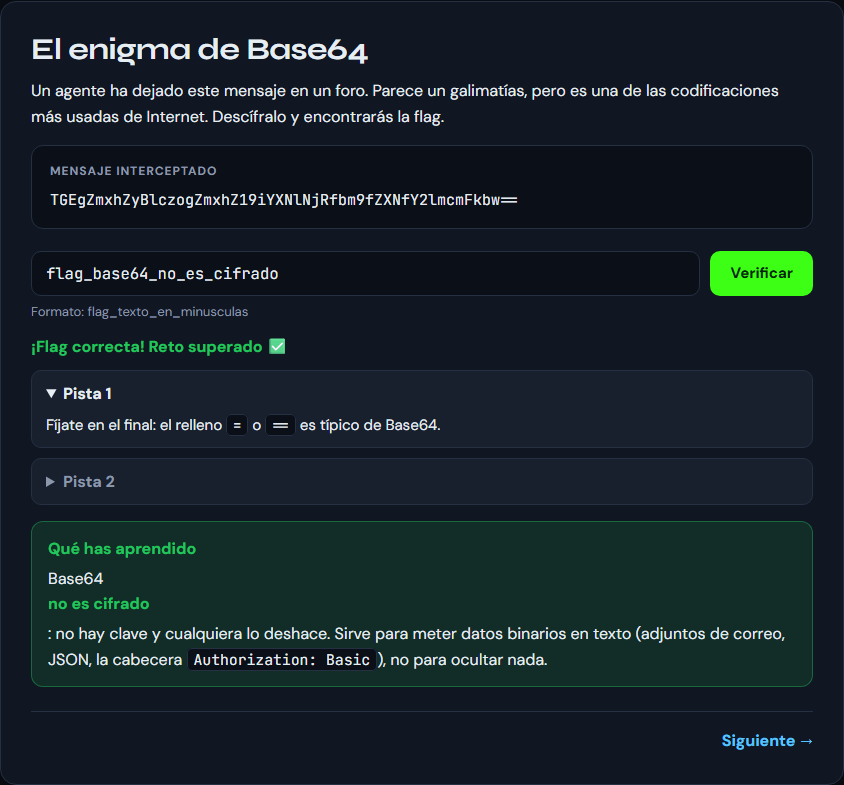
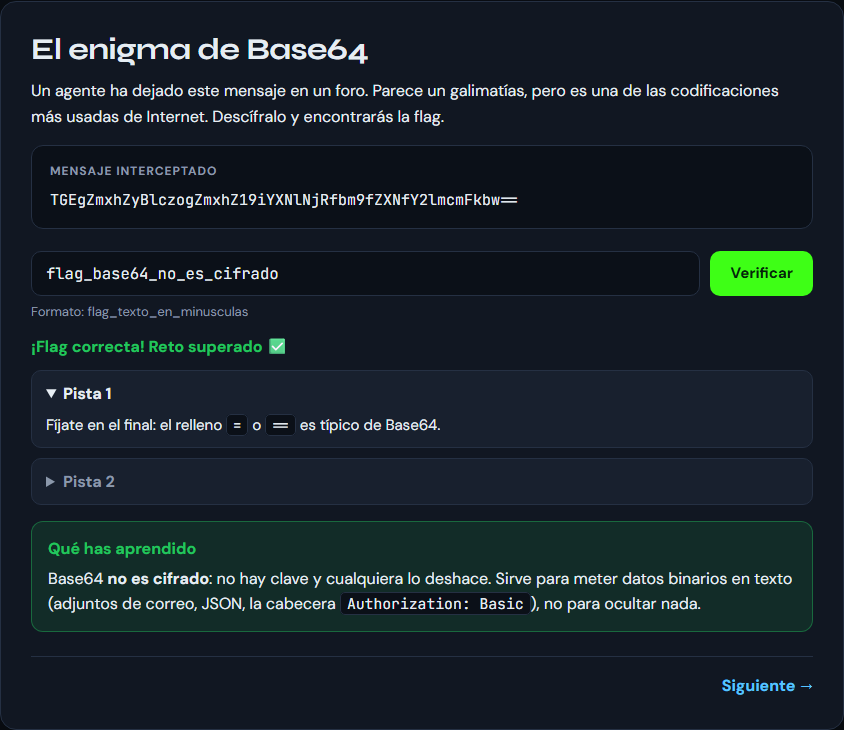
Negritas del recuadro «Qué has aprendido» en línea
La regla .learn b{display:block} afectaba también a las negritas del texto
(«no es cifrado» del reto 1 salía en una línea aparte). Ahora solo se aplica
al título (.learn>b). Captura 01_reto1_ok del writeup regenerada.

diff --git a/assets/hs.css b/assets/hs.css
@@ -91,7 +91,7 @@ details.hint summary{cursor:pointer;font-weight:700;color:var(--muted)}
 details.hint[open] summary{color:var(--text);margin-bottom:6px}
 details.hint p{margin:0;font-size:15px}
 .learn{background:var(--okbg);border:1px solid color-mix(in srgb,var(--ok) 40%,transparent);border-radius:12px;padding:14px 16px;margin-top:16px}
-.learn b{color:var(--ok);display:block;margin-bottom:4px}
+.learn>b{color:var(--ok);display:block;margin-bottom:4px}
 .learn p{margin:0}
 .pager{display:flex;justify-content:space-between;margin-top:24px;padding-top:16px;border-top:1px solid var(--border)}
 .pager a{text-decoration:none;font-weight:700}
